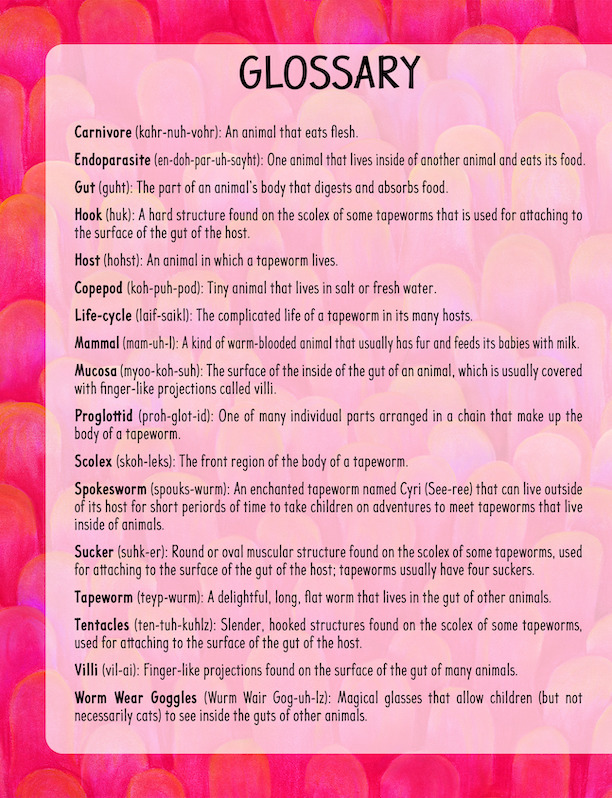
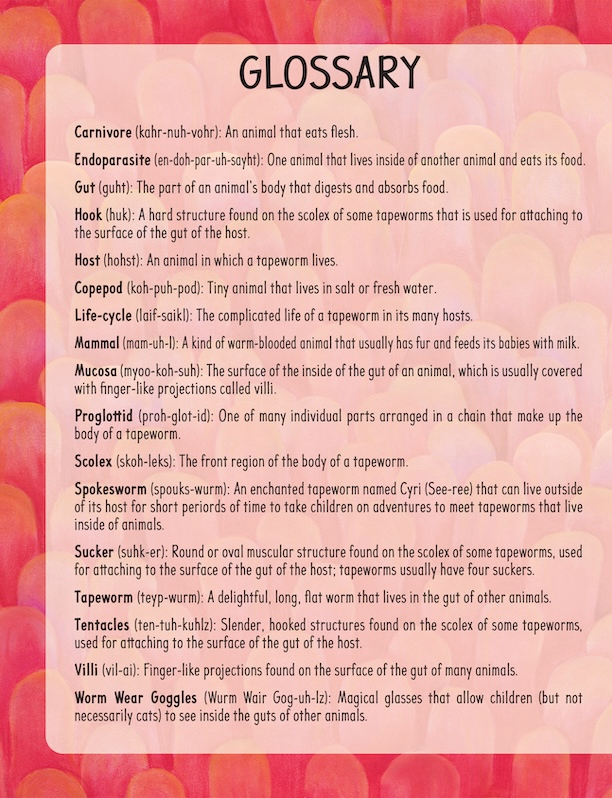
* updated images with correct color

diff --git a/meet_the_suckers/src/App.tsx b/meet_the_suckers/src/App.tsx
@@ -81,7 +81,9 @@ function App() {
   // divs should be their own components
   return (
     <div style={{ width: `${2 * WIDTH}px`, height: '100vh', marginTop: '3em' }}>
-      <div className={styles.bookContainer} style={{position:'relative'}}>
+      <div 
+        // style={{boxShadow: `${currentPageNum === 0 ? `${WIDTH}px 0 5px 2px rgba(0, 0, 0, 0.4)` : '0 0 20px 0 rgba(0, 0, 0, 0.5)'}`}}
+        >
         <HTMLFlipBook
           width={WIDTH} height={HEIGHT}
           showCover={true}

diff --git a/meet_the_suckers/src/Page.module.css b/meet_the_suckers/src/Page.module.css
@@ -17,8 +17,10 @@
 
 .rightShadow {
     box-shadow: inset 7px 0 30px -7px rgba(0, 0, 0, 0.4);
+    /* inset -70px 0 50px -7px rgba(0, 0, 0, 0.35); */
 }
 
 .leftShadow {
     box-shadow: inset -7px 0 30px -7px rgba(0, 0, 0, 0.4);
+     /* inset 70px 0 50px -7px rgba(0, 0, 0, 0.35); */
 }

diff --git a/meet_the_suckers/src/App.module.css b/meet_the_suckers/src/App.module.css
@@ -2,6 +2,10 @@
     background-color: rgb(157, 157, 184);
 }
 
+.bookContainer {
+    /* box-shadow: 0 0 20px 0 rgba(0, 0, 0, 0.5); */
+}
+
 .page {
     /* border: red solid 2px; */
     /* background-color: rgb(255, 0, 0, 0.5); */
